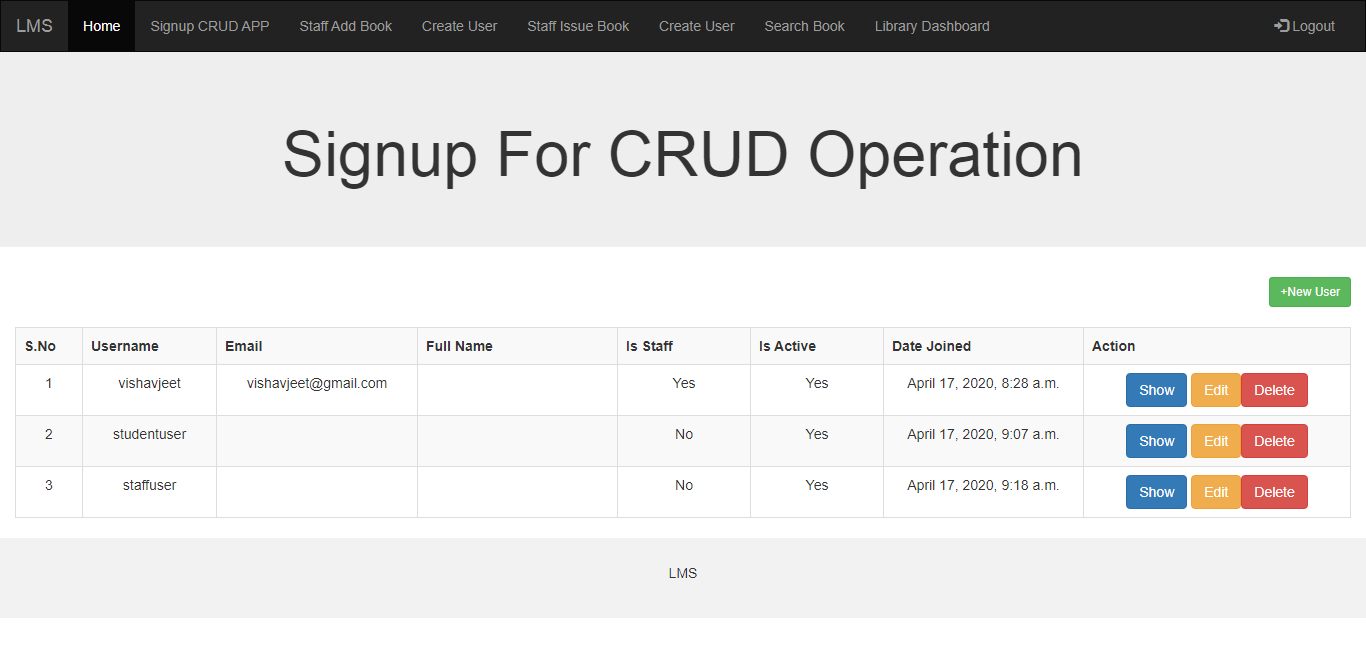
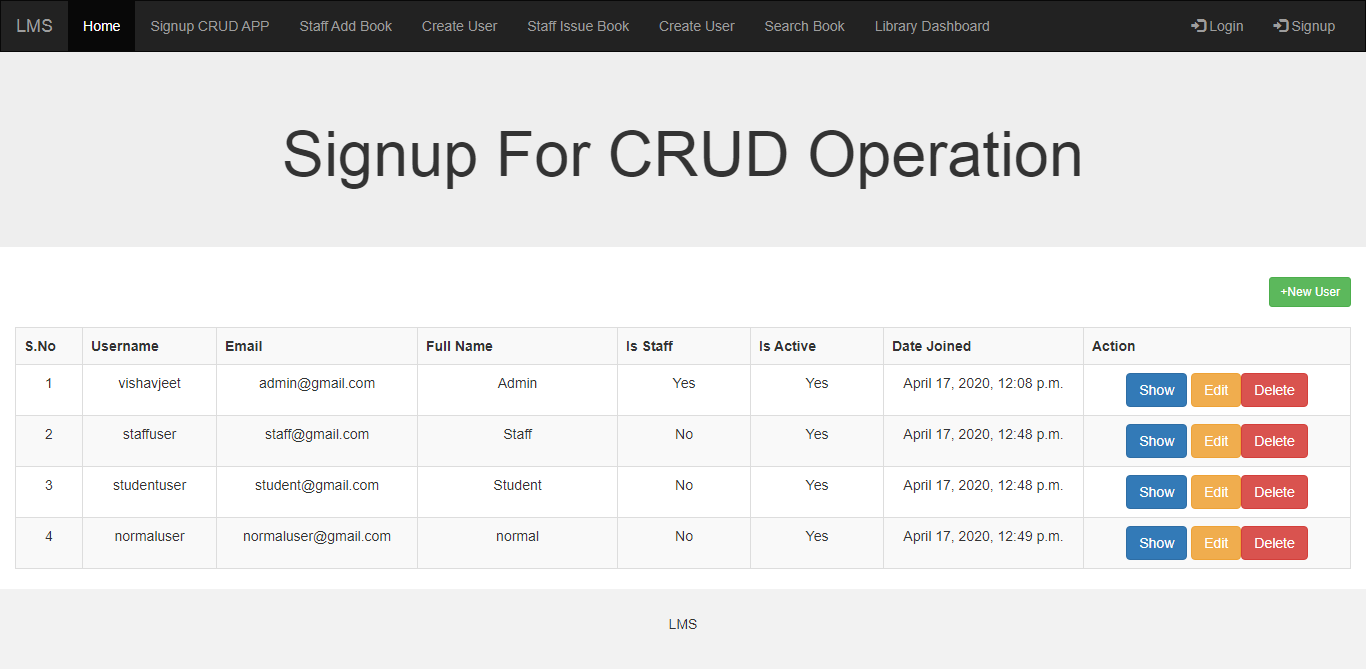
Readme.md updated

diff --git a/README.md b/README.md
@@ -22,8 +22,25 @@ README file for Library Management System & CRUD opration for Signup
 #7: Start the development server
 python manage.py runserver
 
+### Login Credentials for different types of users(Admin/Staff/Student/Normal)
 
-### CRUD PAGE for showing without login, it is testing perpose
+Admin User Credentials
+User: vishavjeet
+Password: 12345678
+
+Staff User(Librarian) Credentials
+Username: staffuser
+Password: jeet@123
+
+Student User (EndUser) Credentials
+Username : studentuser
+password:  jeet@123
+
+Normal User
+Username : normaluser
+password:  jeet@123
+
+### Some Screenshot attached for frontend:
 
 <img src="screenshoot/1.png" alt="CRUD">
 <br><br>
@@ -32,3 +49,6 @@ python manage.py runserver
 <img src="screenshoot/3.png" alt="CRUD">
 <br><br>
 <img src="screenshoot/4.png" alt="CRUD">
+
+### If you want to explore and learn coding skills in Python
+URL: http://www.python-ds.com/
